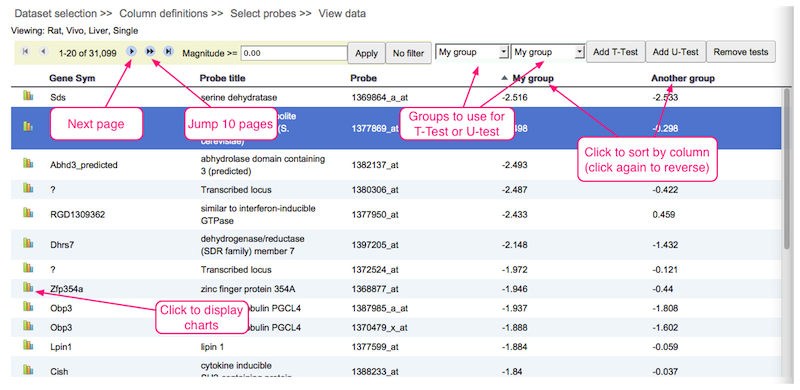
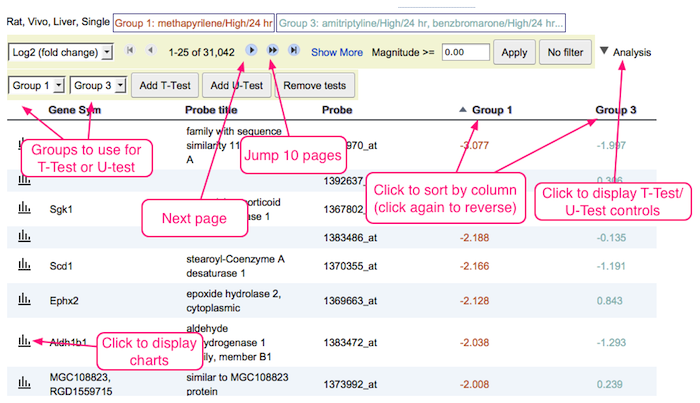
Update help images, descriptions

diff --git a/src/otgviewer/client/help/compoundRanking.html b/src/otgviewer/client/help/compoundRanking.html
@@ -7,8 +7,7 @@ This feature is a way of assigning a score to each compound based on some set of
 <p>
 When compounds have been ranked, they are automatically sorted by score, the highest scoring compound being first.
  A higher score means that the compound matches the specified rules or patterns better. When a ranking has been performed, 
- it is also possible to click the chart icon to see time series for those probes that are involved in the ranking. 
- This icon is not meaningful if a ranking has not first been performed.
+ it is also possible to click the chart icon to see time series for those probes that are involved in the ranking. When these time series are shown, the dose level that matched best is highlighted in a lighter colour.
  <p>
  
 	In order to rank compounds, ranking rules must first be specified. Each ranking rule specifies, at a minimum, a gene (or probe) and a match type. 
@@ -27,16 +26,20 @@ When compounds have been ranked, they are automatically sorted by score, the hig
 	 <h4>Match types</h4>
 
 <dl>
-<dt>Sum</dt> <dd>This rule simply adds up the fold values over time, favouring maximal fold values.</dd>
-<dt>NegativeSum</dt> <dd> This rule is the inverse of the above, favouring minimal fold values.</dd>
-<dt>Synthetic</dt> <dd> This performs a Pearson correlation test against a curve that the user can specify. A curve is specified as four integers, for example 1 2 2 1 or -2 -1 0 1. To the Pearson correlation score, the number 1 is added, so the final result will range between 0 and 2 (but if multiple probes are matched, a product is used, so for two probes, the range is 0-4, etc). The user supplied curve is entered in the field called Synth. curve. This field is meaningless if the Synthetic rule is not being used. Note that the number 0 is added artificially before each curve, so that 1 1 1 1 will really result in “0 1 1 1 1” being used for the match. This is to differentiate from, for example, -1 -1 -1 -1 which becomes “0 -1 -1 -1 -1”, thus containing a decreasing step instead of an increasing one. Due to the nature of the Pearson correlation, it is impossible to match on a curve such as 0 0 0 0, but it is possible to use the Unchanged rule for this case.</dd>
-<dt>MonotonicUp</dt> <dd> This rule favours strictly increasing fold values over time.</dd>
-<dt>MonotonicDown</dt> <dd> This rule favours strictly decreasing fold values over time.</dd>
-<dt>ReferenceCompound</dt> <dd> This rule performs a Pearson correlation, like the Synthetic rule above, except that the reference curve is taken from another compound instead of being supplied by the user. The user can thus choose a compound and a dose level that is to act as the reference. This is done by using the fields called ref. compound and ref. dose. These fields are meaningless if the ReferenceCompound rule is not being used.</dd>
+<dt>Total upregulation</dt> <dd>This rule simply adds up the fold values over time, favouring maximal fold values.</dd>
+<dt>Total downregulation</dt> <dd>This rule is the inverse of the above, favouring minimal fold values.</dd>
+<dt>User pattern</dt> <dd> This performs a Pearson correlation test against a curve that the user can specify. A curve is specified as four integers, for example 1 2 2 1 or -2 -1 0 1. To the Pearson correlation score, the number 1 is added, so the final result will range between 0 and 2 (but if multiple probes are matched, a product is used, so for two probes, the range is 0-4, etc). The user supplied curve is entered in the field called Synth. curve. This field is meaningless if the Synthetic rule is not being used. Note that the number 0 is added artificially before each curve, so that 1 1 1 1 will really result in “0 1 1 1 1” being used for the match. This is to differentiate from, for example, -1 -1 -1 -1 which becomes “0 -1 -1 -1 -1”, thus containing a decreasing step instead of an increasing one. Due to the nature of the Pearson correlation, it is impossible to match on a curve such as 0 0 0 0, but it is possible to use the Unchanged rule for this case.</dd>
+<dt>Monotonic increasing</dt> <dd> This rule favours strictly increasing fold values over time.</dd>
+<dt>Monotonic decreasing</dt> <dd> This rule favours strictly decreasing fold values over time.</dd>
+<dt>Maximal fold</dt> <dd>  This rule ranks based on the single largest positive fold change. </dd>
+<dt>Minimal fold</dt> <dd> This rule ranks based on the single largest negative fold change. </dd> 
+<dt>High variance</dt> <dd> This rule favours big changes. </dd>
+<dt>Low variance</dt> <dd> This rule favours small changes. </dd>
+<dt>Reference compound</dt> <dd> This rule performs a Pearson correlation, like the Synthetic rule above, except that the reference curve is taken from another compound instead of being supplied by the user. The user can thus choose a compound and a dose level that is to act as the reference. This is done by using the fields called ref. compound and ref. dose. These fields are meaningless if the ReferenceCompound rule is not being used.</dd>
 <dt>Unchanged</dt> <dd> This rule favours fold values that change very little or not at all.</dd>
 </dl>
 
 When multiple rules are active, for each compound a sub-score is computed for each active rule. For each dose level, the product of these
  sub-scores is computed. The maximum of these products (the best matching dose level) is the final score for each compound. If a single rule 
- is applied to a gene that happens to be associated with multiple probes, it is treated as if it were several independent rules. 
+ is applied to a gene that happens to be associated with multiple probes, it is treated as if it were several independent rules. 
 	

diff --git a/src/otgviewer/client/help/dataDisplay.html b/src/otgviewer/client/help/dataDisplay.html
@@ -12,7 +12,7 @@ Depending on how big the columns are, the data may take some time to load. When 
 <H4>Magnitude filtering</H4> By entering a number and clicking <i>Apply</i>, you can filter the probes so that only the ones that contain a
  value whose absolute value is greater than this number will be shown. Note that if you are viewing fold values, the absolute value <nobr>| log2 (xc/x) |</nobr> will be used. If you are viewing absolute values, <nobr>| x |</nobr> will be used. Click No filter to reset the display.
  
-<H4>T-Test and U-Test</H4> By selecting two different groups and clicking the <i>Add T-Test</i> button, it is possible to add a special column with 
+<H4>T-Test and U-Test</H4>First, click on <i>Analysis</i> to display the testing controls. By selecting two different groups and clicking the <i>Add T-Test</i> button, it is possible to add a special column with 
 p-values for the Student’s T-Test. The Add U-Test button is similar, except that it adds a non-parametric Mann-Whitney U-Test. The <i>Remove Tests</i> button removes all test columns generated in this way.
  
 <H4>Sort data</H4> By clicking the column header of either a group column or a test column, it is possible to sort the data either in an ascending or 
@@ -25,3 +25,8 @@ a descending manner. A small triangle will show the sorting that is currently in
 <H4>Download CSV file</H4> On the <i>actions</i> menu you will find this menu item. It allows you to download all the currently shown data as a CSV file. 
 All data is downloaded, even data that on pages not currently shown on the screen. Dynamically fetched columns, such as GO term or KEGG pathway columns, are not included in the CSV file. Test columns are included.
 <H4>Display charts</H4> By clicking the chart icon on a row, it is possible to display charts that show the expression pattern for the corresponding probe. Two kinds of charts are available: <i>Individual values</i> and <i>All time series</i>.
+
+<H4>Export to TargetMine</H4>On the <i>actions</i> menu, you will find this menu item. It allows you to export the genes corresponding to the currently 
+displayed data to the TargetMine system, based on a pre-selected TargetMine template. (You can use other templates once the list is
+transferred to TargetMine). You can not export more than 500 genes. If you try to export more than 500, only the first 500, in the order
+that you have sorted them, will be exported.

diff --git a/src/otgviewer/client/help/groupDefinition.html b/src/otgviewer/client/help/groupDefinition.html
@@ -1,8 +1,8 @@
-<H3>Sample group definition screen</H3>
+<br><H3>Sample group definition screen</H3>
 When you have selected a data set, you will be taken to the column definition screen. 
 This screen has two purposes. The main purpose is to define groups. At least one group must be defined in order to proceed to the next stage.
  The secondary purpose is to rank compounds by some property. 
-
+
 <H4>Defining groups</H4>
 Groups contain some number of samples. A sample is a set of expression values from an individual, for a particular point in time, for a
  particular set of conditions. Samples are added to a group by selecting dose levels and measurement times for some compound. In general,
@@ -20,7 +20,10 @@ to a compound to select it.
 	 combination, the chosen compound will not be part of the group. 
 	When you have selected the combinations that interest you, you can enter a memorable  name for the group. Click Save to save the
 	 group. It will be remembered by the web browser, so that the next time you use Toxygates, the group will remain. The data is 
-	 stored in the “local storage” facility. Note that groups can be active or inactive. By default, groups are active when they are 
+	 stored
+in
+the
+“local storage” facility. Note that groups can be active or inactive. By default, groups are active when they are 
 	 created. Inactive groups are still remembered by the web browser, but they will not appear later on in the data analysis. This 
 	 can be a useful way to retain groups that you want to use in the future but do not want to work with at the moment.
 
